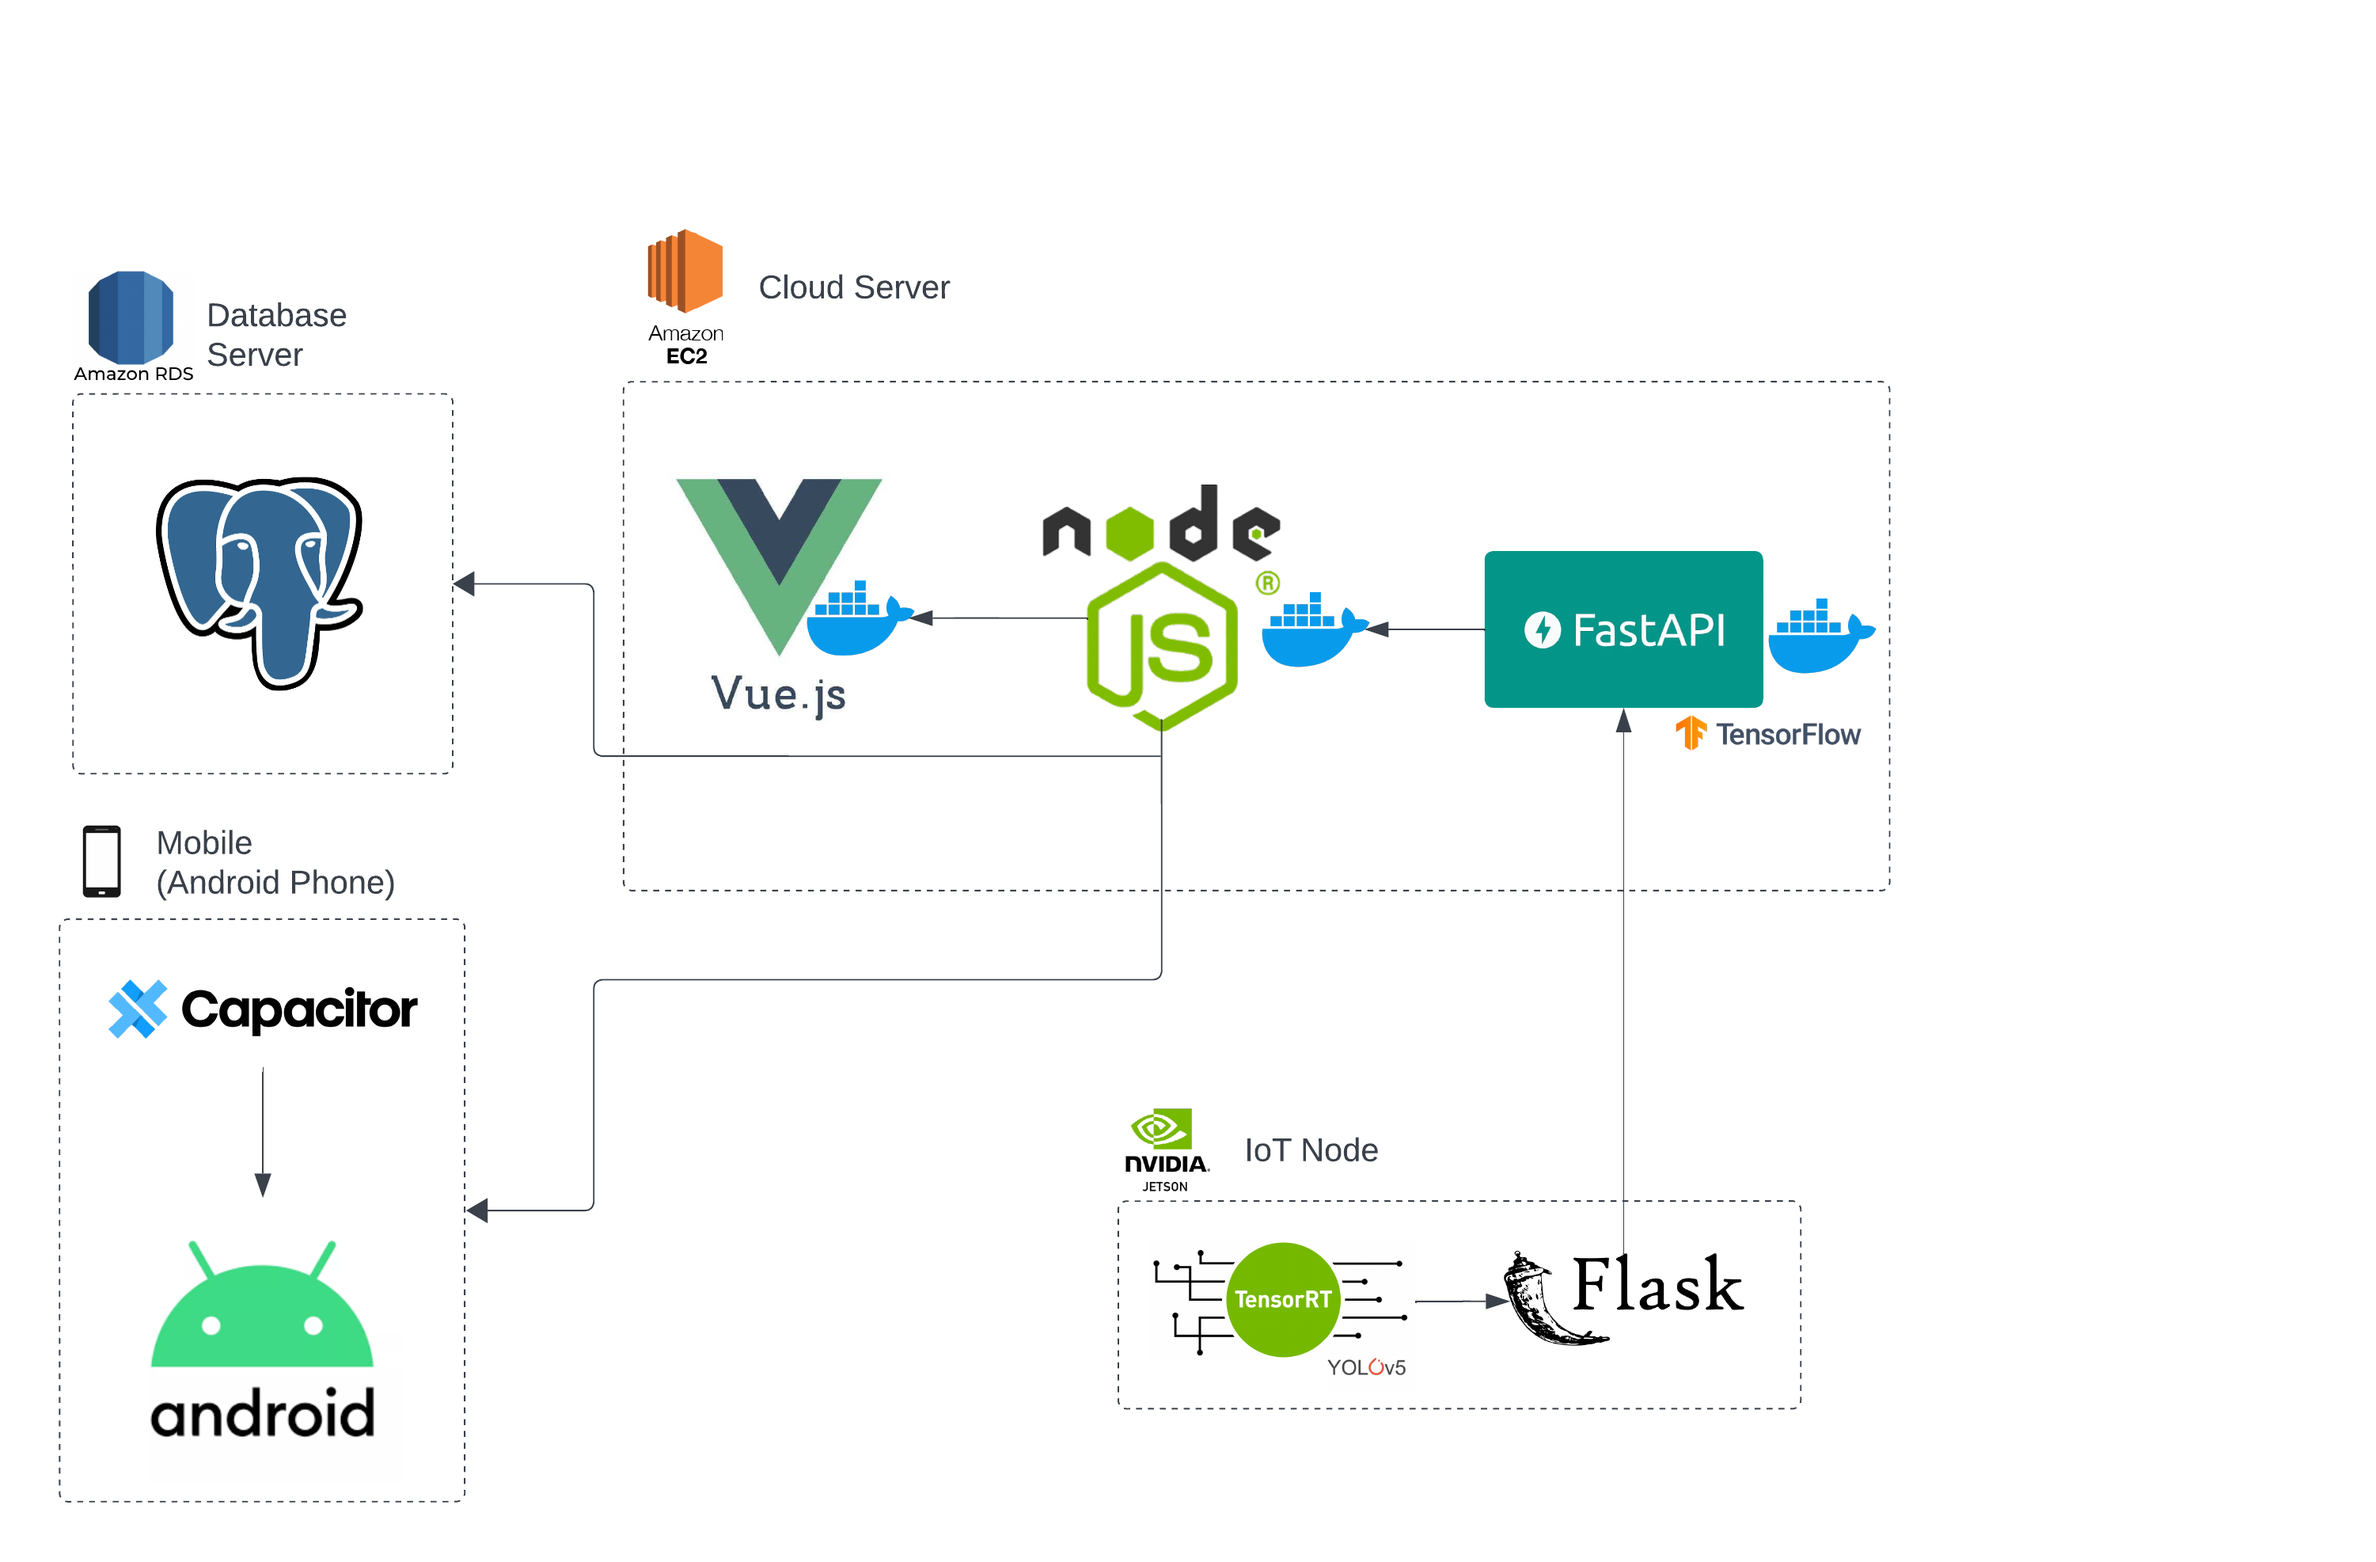
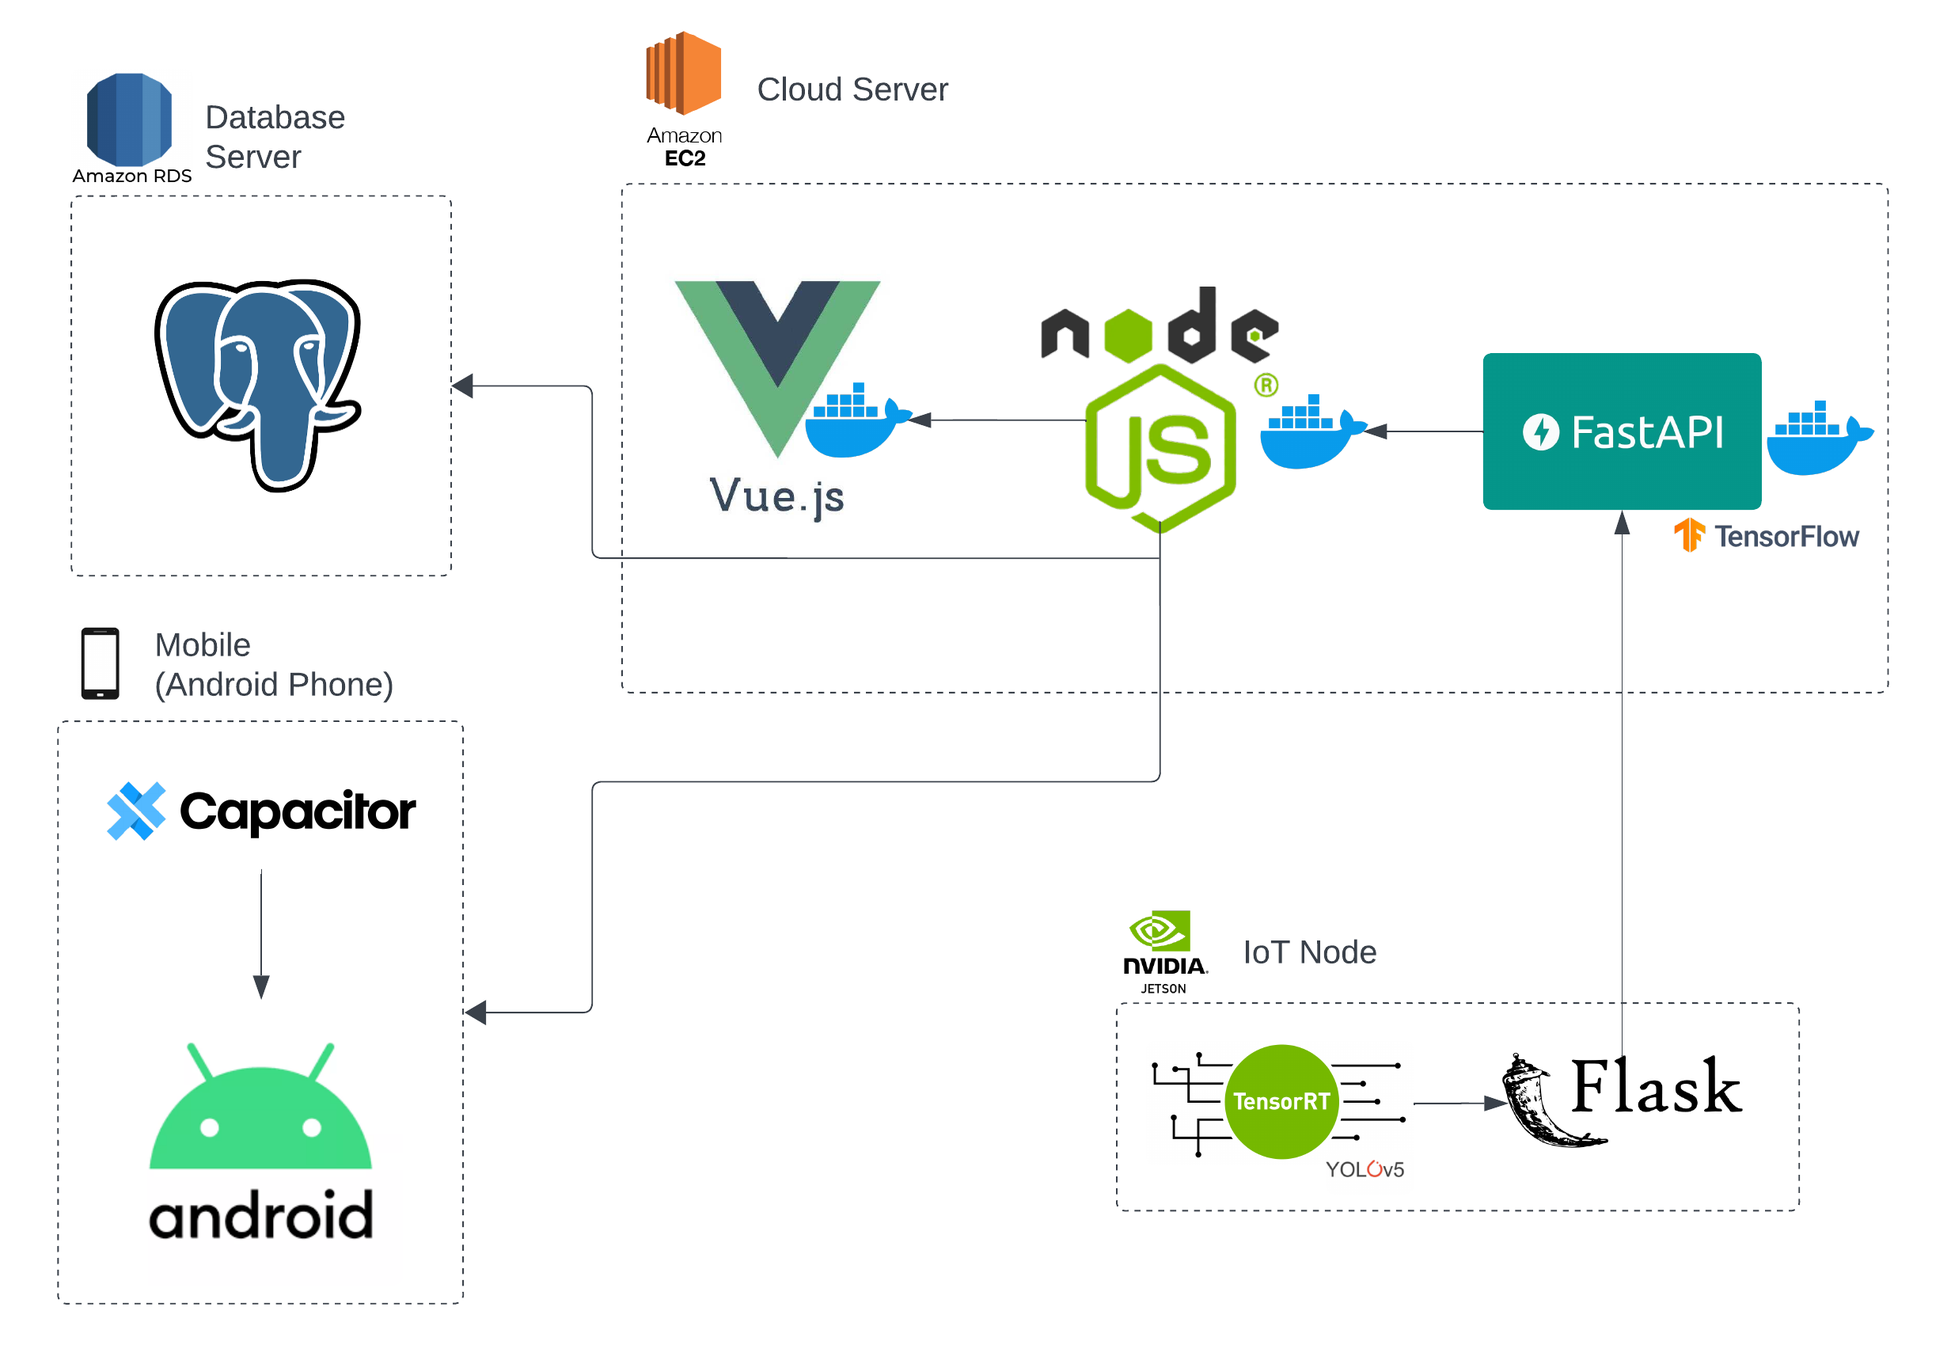
Modified README.md

diff --git a/readme.md b/readme.md
@@ -14,7 +14,7 @@ Here's how it works:
 In addition, this repository provides a web app and a mobile app for interacting with the system. You can find the complete code for deploying the models on an IoT node hosted on a Jetson Nano [here](https://github.com/Rod5919/Weapon-detector). 
 
 <p align="center">
-    <img src="images/pipeline.png" width="700" align="center">
+    <img src="images/pipeline.png" width="500" align="center">
 </p>
 
 ## Repository Structure
@@ -34,7 +34,7 @@ The design of the end devices prioritizes two main goals:
 - Monitoring diverse environments: The devices are designed to effectively monitor both public and private spaces.
 - Edge computing: Deep learning pipelines are embedded directly into the devices, bringing processing power closer to the source of data.
 
-| **3D Design (Posterior)**  | **3D Design (Frontal)** | 
+| **3D Design (Frontal)**  | **3D Design (Posterior)** | 
 |-----------|-----------|
 | <img src="images/3d-design-enddevice-2.png" alt="Main Menu" width="350" style="margin-right: 20px;"/> | <img src="images/3d-design-enddevice-1.png" alt="Main Menu" width="350" style="margin-right: 20px;"/> |
 
@@ -44,11 +44,11 @@ The design of the end devices prioritizes two main goals:
 
 ## Datasets
 
-Find below the three datasets prepared for the project: 
+Find below the three datasets prepared for the present project: 
 
-1. The [Weapon Detection Dataset]() containing guns and knives.
-2. The [Armed Robbery Detection](https://drive.google.com/file/d/1JqMqG5l9jaXZ1SF_CP7ZtL0acimZcZYl/view?usp=sharing) containing videos with armed robberies and normal videos.
-3. The [Simulation dataset](https://drive.google.com/drive/folders/18_gmn4qohngT7pbf0JBTlW7DemHEBowp?usp=sharing) prepared to test the performance of the entire system. 
+1. Weapon Detection Dataset: It contains guns and knives of variable dimensions. This dataset will be shared on request. 
+2. [Armed Robbery Detection](https://drive.google.com/file/d/1Z_B09R4UONPpkRVynjnxuIt8C7dLPNpc/view?usp=sharing): It contains videos of armed robberies and normal situations, all with a resolution of 224x224.
+3. [Simulation dataset](https://drive.google.com/drive/folders/18_gmn4qohngT7pbf0JBTlW7DemHEBowp?usp=sharing): It has videos with situations similar to real armed robberies. This dataset was used to test the performance of the entire system. 
 
 ## Citation
 
